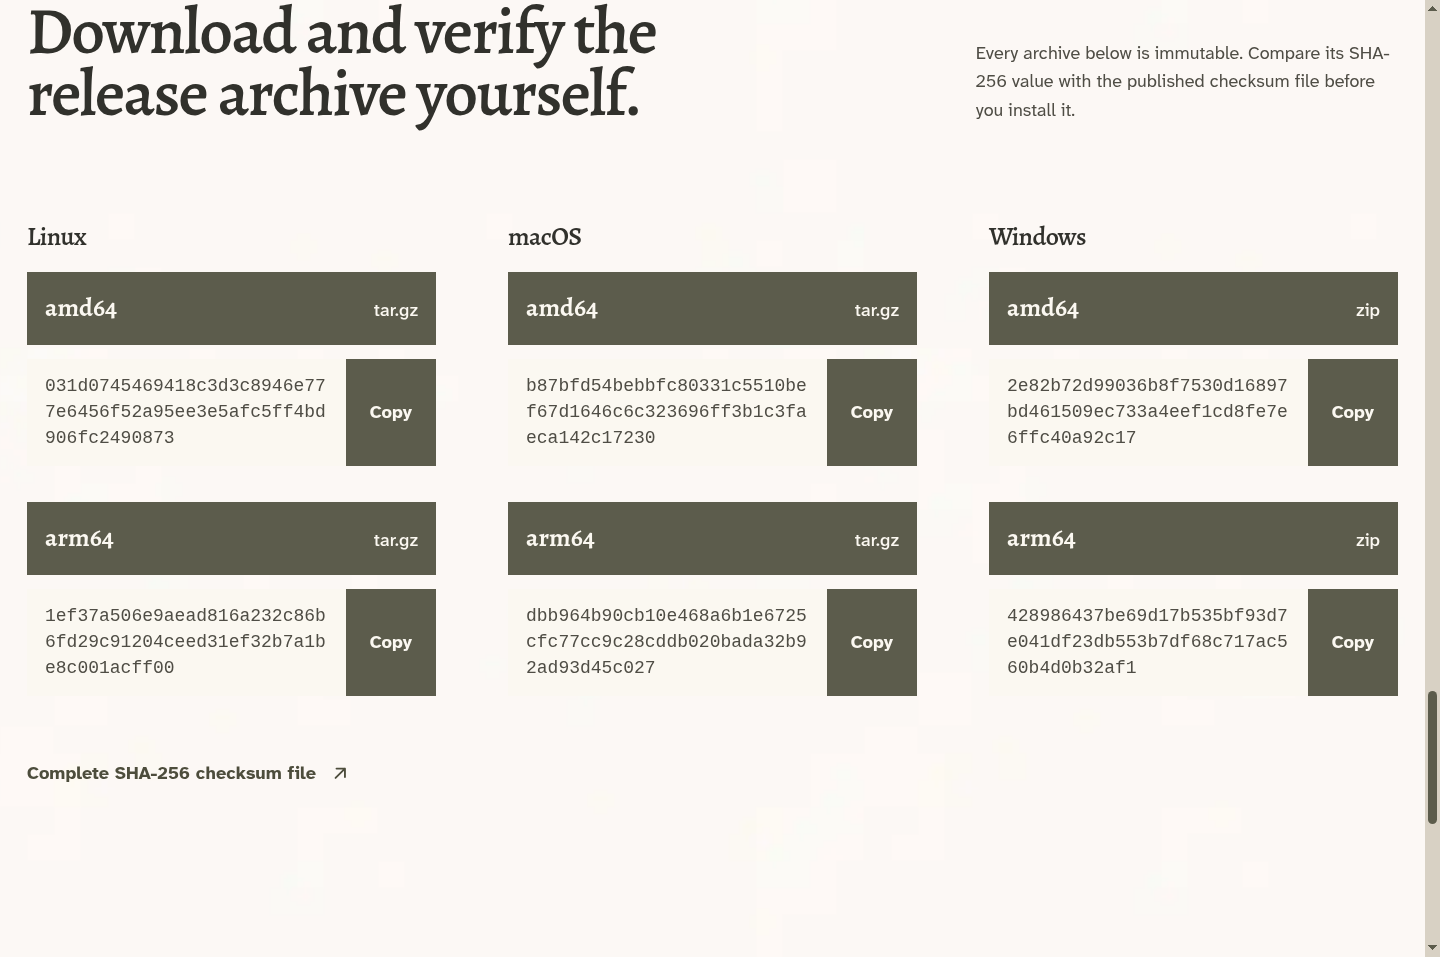
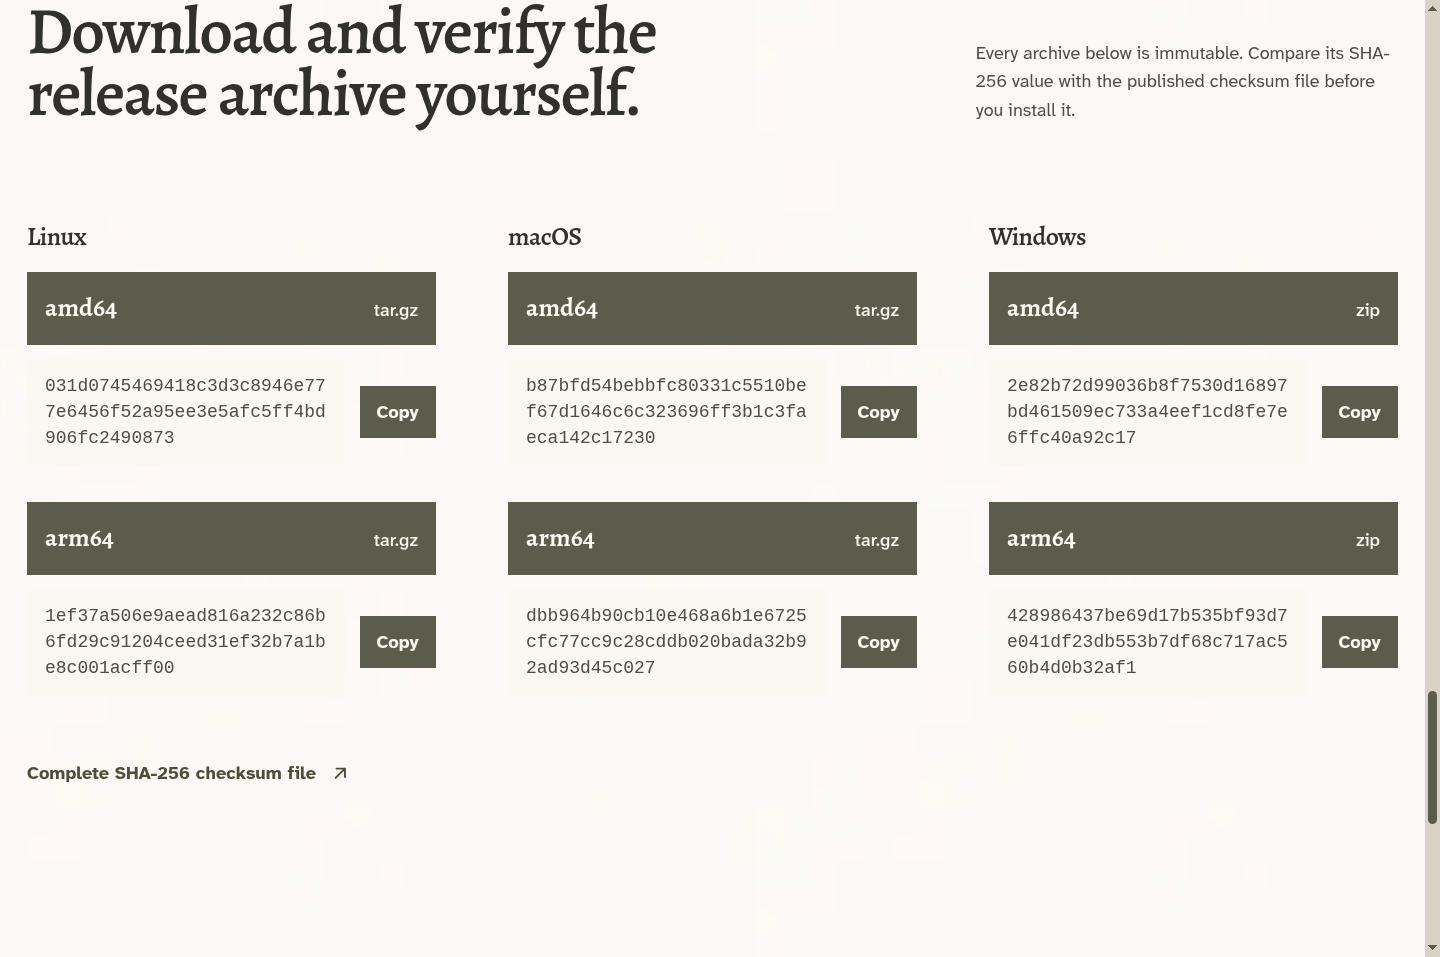
Separate copy controls from code
Give commands and checksums a distinct adjacent copy action, then reduce the button to a compact touch-safe size on desktop and mobile.

diff --git a/src/styles/global.css b/src/styles/global.css
@@ -777,11 +777,14 @@ pre {
   position: relative;
   display: grid;
   grid-template-columns: minmax(0, 1fr) auto;
+  gap: 0.75rem;
   align-items: stretch;
   max-width: 100%;
 }
 
 .copyable-code pre {
+  width: 100%;
+  min-width: 0;
   max-width: 100%;
   margin: 0;
   padding: 1rem 1.15rem;
@@ -795,8 +798,10 @@ pre {
 }
 
 .copy-button {
-  min-width: 5rem;
-  padding: 0.75rem 0.9rem;
+  align-self: center;
+  min-width: 4.25rem;
+  min-height: 2.75rem;
+  padding: 0.65rem 0.7rem;
   border: 0;
   color: var(--ink);
   background: var(--paper-deep);
@@ -1273,7 +1278,8 @@ pre {
   }
 
   .copyable-code {
-    grid-template-columns: minmax(0, 1fr) 4.75rem;
+    grid-template-columns: minmax(0, 1fr) 4.25rem;
+    gap: 0.5rem;
   }
 
   .copyable-code pre {

diff --git a/DESIGN.md b/DESIGN.md
@@ -74,7 +74,7 @@ components:
     backgroundColor: "{colors.paper-deep}"
     textColor: "{colors.ink}"
     typography: "{typography.body}"
-    padding: "0.75rem 0.9rem"
+    padding: "0.65rem 0.7rem"
   copy-action-hover:
     backgroundColor: "{colors.clay}"
     textColor: "{colors.paper-light}"
@@ -82,7 +82,7 @@ components:
     backgroundColor: "{colors.moss}"
     textColor: "{colors.paper-light}"
     typography: "{typography.body}"
-    padding: "0.75rem 0.9rem"
+    padding: "0.65rem 0.7rem"
   copy-action-compact-hover:
     backgroundColor: "{colors.ink}"
     textColor: "{colors.paper-light}"
@@ -223,7 +223,9 @@ The package-manager block is one broad proof-charcoal field. On desktop, the lar
 
 ### Copyable code
 
-Commands and SHA-256 values use the same two-column control: code beside a native `Copy` button. Each route supplies a specific accessible label for the value, such as a Homebrew command or a Linux amd64 checksum. The visible button changes to `Copied` or `Failed` for 1.8 seconds, while a hidden polite live region announces the labeled success or tells the visitor to select and copy the text manually.
+Commands and SHA-256 values use the same two-column control: code beside a native `Copy` button, separated by `0.75rem`. The code column and button remain distinct instead of sharing one visual field. At and below 38rem, the gap tightens to `0.5rem` and the button column becomes a fixed `4.25rem`. Each route supplies a specific accessible label for the value, such as a Homebrew command or a Linux amd64 checksum. The visible button changes to `Copied` or `Failed` for 1.8 seconds, while a hidden polite live region announces the labeled success or tells the visitor to select and copy the text manually.
+
+The code field uses `width: 100%`, `min-width: 0`, and `max-width: 100%`, so the flexible column can shrink without forcing the grid beyond its container. The `Copy` button is centered vertically with a `4.25rem` minimum width, a `2.75rem` minimum height, and `0.65rem 0.7rem` padding. On compact screens, the fixed grid column supplies the button width while its own minimum width drops to zero.
 
 The command variant keeps every line complete with preformatted whitespace and horizontal scrolling inside the code area. It never wraps a command to fit the viewport. The compact checksum variant uses a light-paper code field, permits wrapping anywhere in the hash, and gives the adjacent action a moss field. Both variants keep technical text and the control label at the existing body size, so this pattern does not add a font family or size tier.
 
